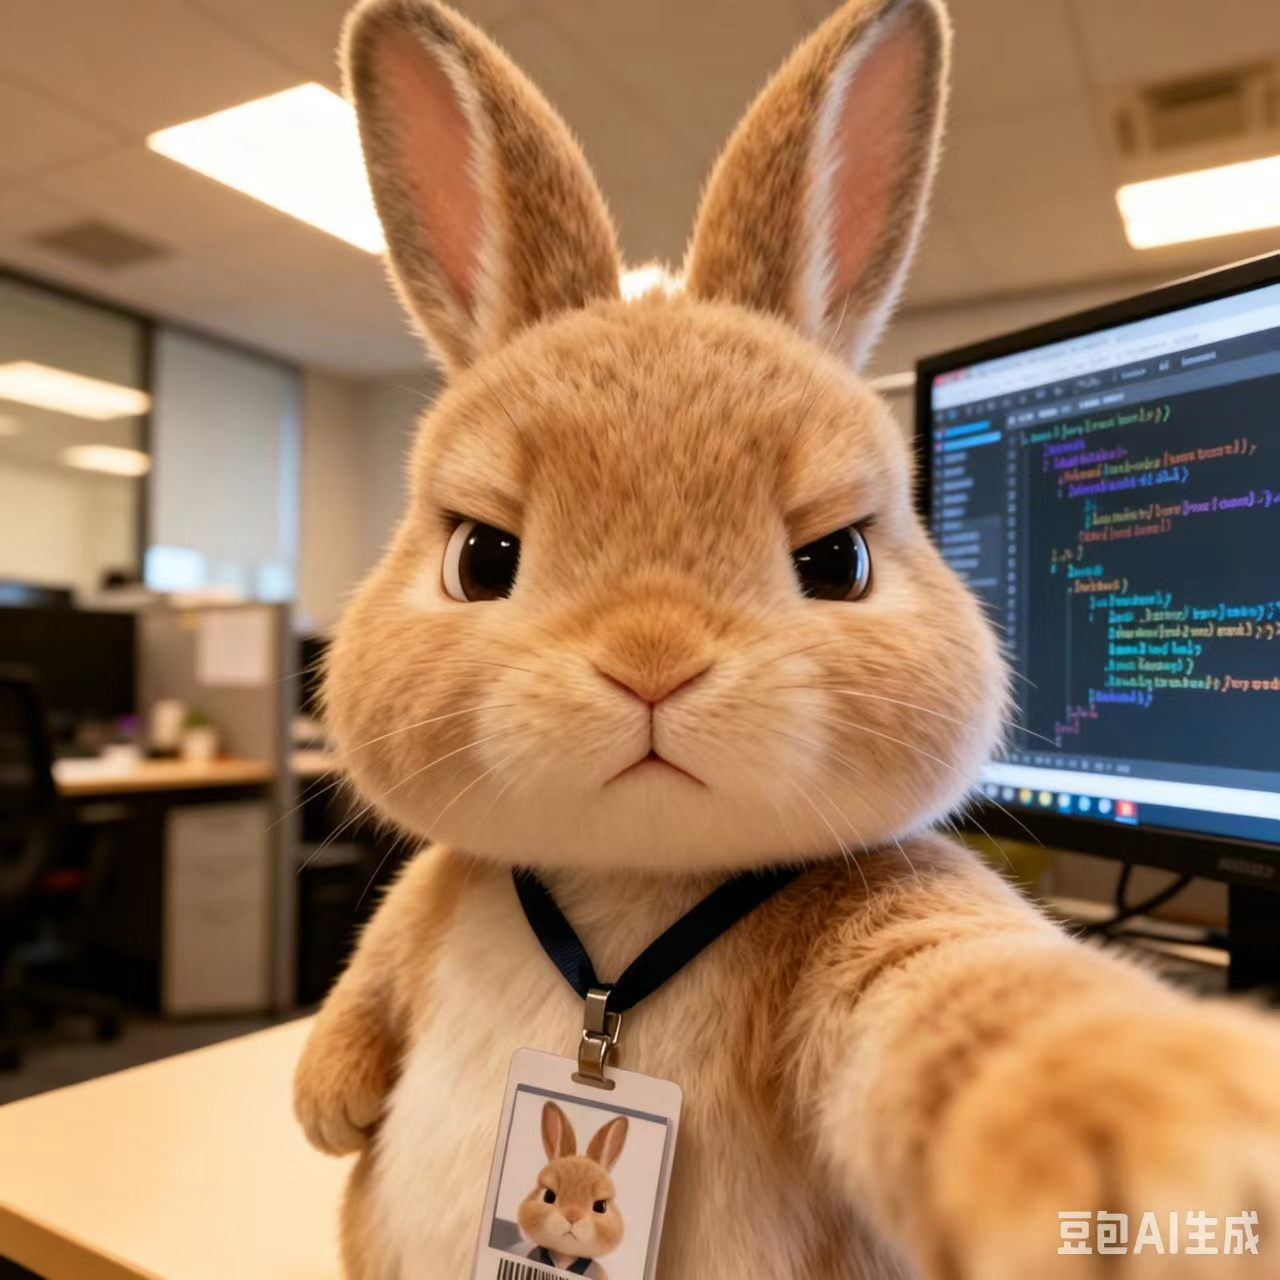
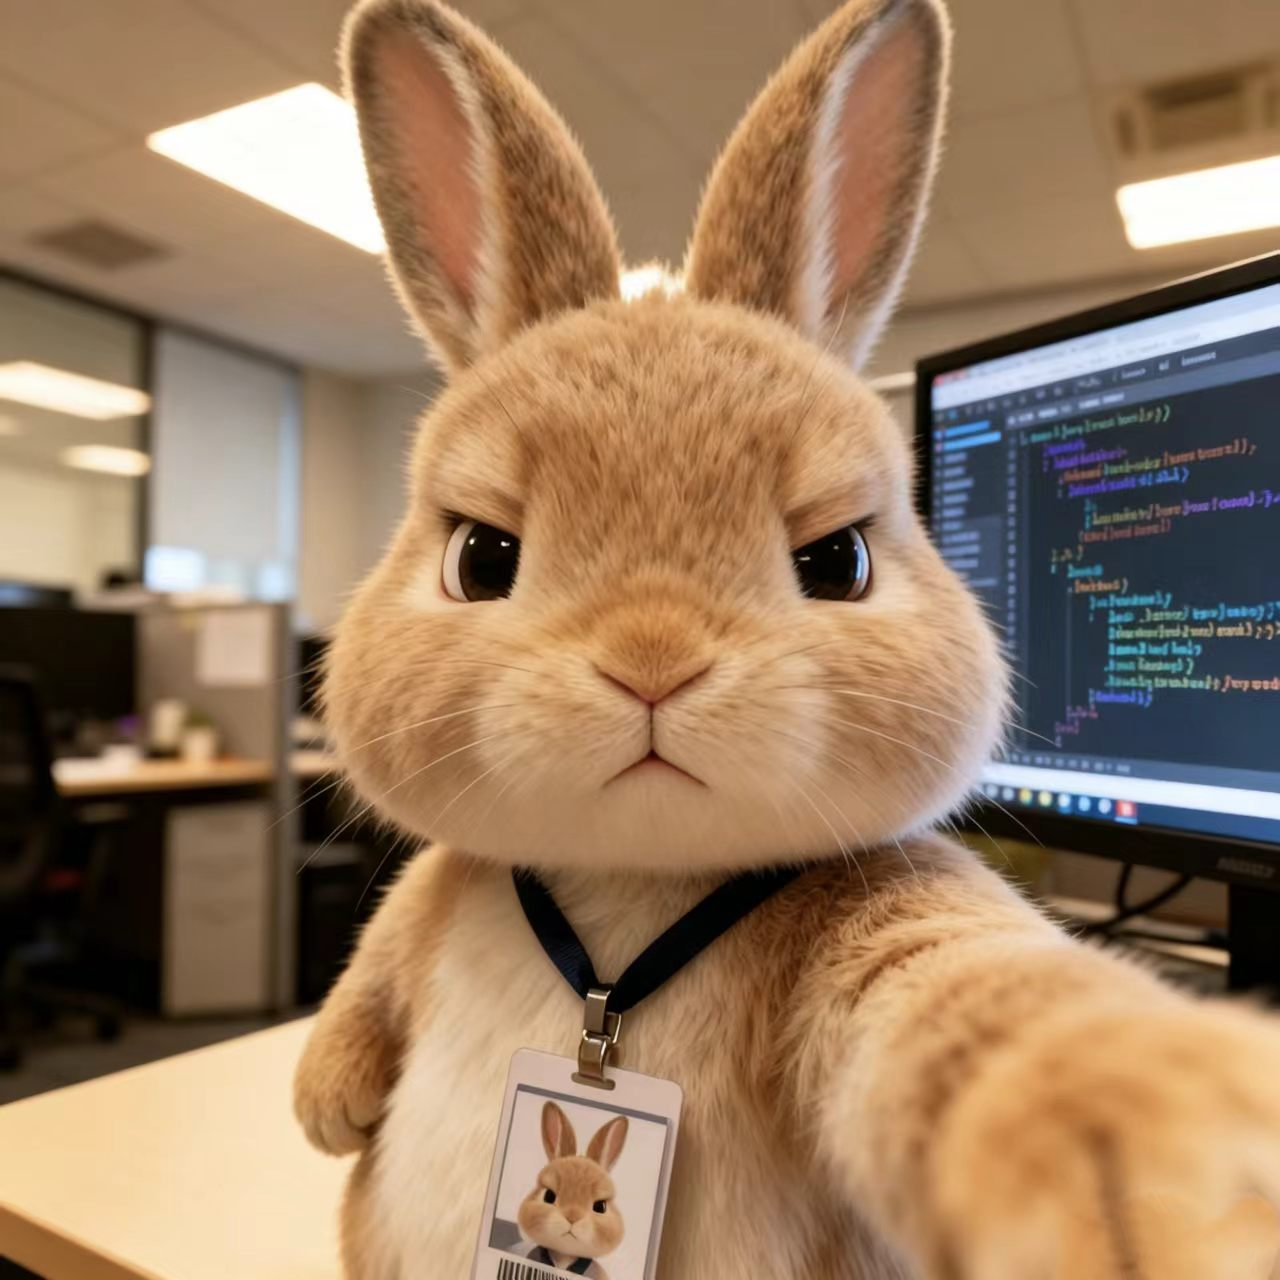
Add files via upload

diff --git a/index.html b/index.html
@@ -3,7 +3,7 @@
 <head>
   <meta charset="UTF-8">
   <meta name="viewport" content="width=device-width, initial-scale=1.0">
-  <title>我的小屋</title>
+  <title>郭岩的小屋</title>
   <style>
     * { margin: 0; padding: 0; box-sizing: border-box; }
     body { overflow: hidden; font-family: 'Microsoft YaHei','PingFang SC',sans-serif; }
@@ -58,6 +58,50 @@
       font-size:12px; letter-spacing:3px; text-transform:uppercase;
       text-shadow: 0 1px 6px rgba(0,0,0,.4);
     }
+
+    /* ── 导航栏 ── */
+    #nav {
+      position: fixed;
+      bottom: 32px;
+      left: 50%;
+      transform: translateX(-50%);
+      z-index: 30;
+      display: flex;
+      gap: 10px;
+      flex-wrap: wrap;
+      justify-content: center;
+      padding: 0 16px;
+      opacity: 0;
+      animation: navIn 0.8s ease 2s forwards;
+    }
+    @keyframes navIn { from{opacity:0;transform:translateX(-50%) translateY(12px)} to{opacity:1;transform:translateX(-50%) translateY(0)} }
+
+    .nav-btn {
+      display: inline-flex;
+      align-items: center;
+      gap: 6px;
+      padding: 9px 18px;
+      background: rgba(20,40,5,0.72);
+      border: 1px solid rgba(255,220,120,0.4);
+      border-radius: 28px;
+      color: rgba(255,230,170,0.9);
+      font-size: 13px;
+      text-decoration: none;
+      font-family: 'Microsoft YaHei','PingFang SC',sans-serif;
+      letter-spacing: 0.5px;
+      backdrop-filter: blur(10px);
+      transition: all 0.25s ease;
+      white-space: nowrap;
+      box-shadow: 0 4px 16px rgba(0,0,0,0.3);
+    }
+    .nav-btn:hover {
+      background: rgba(255,200,80,0.2);
+      border-color: rgba(255,220,120,0.8);
+      color: #FFE08A;
+      transform: translateY(-3px);
+      box-shadow: 0 8px 24px rgba(0,0,0,0.4);
+    }
+    .nav-btn .ni { font-size: 15px; }
     #hint {
       position:fixed; bottom:22px; left:50%; transform:translateX(-50%);
       z-index:20; pointer-events:none;
@@ -91,11 +135,20 @@
   <!-- App -->
   <div id="app">
     <div id="vignette"></div>
-    <div id="badge">My Room</div>
+    <div id="badge">郭岩的小屋</div>
     <div id="hint">悬停探索 · 点击进入</div>
     <div id="tip">
       <div class="tip-box" id="tip-text"></div>
       <div class="tip-arr"></div>
+    </div>
+
+    <!-- 导航栏 -->
+    <div id="nav">
+      <a class="nav-btn" href="about.html"><span class="ni">👤</span> 关于我</a>
+      <a class="nav-btn" href="photo.html"><span class="ni">📷</span> 我的相册</a>
+      <a class="nav-btn" href="video.html"><span class="ni">🎬</span> 我的视频</a>
+      <a class="nav-btn" href="notes.html"><span class="ni">📚</span> 学习笔记</a>
+      <a class="nav-btn" href="links.html"><span class="ni">🎨</span> 其他</a>
     </div>
   </div>
 

diff --git a/photo.html b/photo.html
@@ -256,15 +256,15 @@ body {
 
   <div class="tabs-wrap">
     <span class="tabs-label">按地点浏览：</span>
-    <div class="tab active"  onclick="switchTab('sanya',this)">🌊 三亚</div>
+    <div class="tab active"  onclick="switchTab('ai',this)">🤖 AI 生成</div>
+    <div class="tab" onclick="switchTab('sanya',this)">🌊 三亚</div>
     <div class="tab" onclick="switchTab('jiuzhai',this)">🏔 九寨沟</div>
     <div class="tab" onclick="switchTab('hangzhou',this)">🌸 杭州西湖</div>
     <div class="tab" onclick="switchTab('chengdu',this)">🐼 成都</div>
-    <div class="tab" onclick="switchTab('ai',this)">🤖 AI 生成</div>
   </div>
 
   <!-- ══ 三亚 ══ -->
-  <div class="category active" id="cat-sanya">
+  <div class="category" id="cat-sanya">
     <div class="cat-block">
       <div class="cat-header"><span class="cat-icon">🌊</span><span class="cat-name">三亚旅行</span><span class="cat-badge">4 张照片</span></div>
       <p class="cat-desc">蓝色海岸线、棕榈树与礁石奇景，是属于三亚的热烈与松弛感。</p>
@@ -384,7 +384,7 @@ body {
   </div>
 
   <!-- ══ AI 生成 ══ -->
-  <div class="category" id="cat-ai">
+  <div class="category active" id="cat-ai">
     <div class="cat-block">
       <div class="cat-header"><span class="cat-icon">🤖</span><span class="cat-name">AI 生成照片</span><span class="cat-badge">4 张</span></div>
       <p class="cat-desc">用提示词召唤出的画面灵感，每一张都附有生成时使用的完整提示词。</p>
